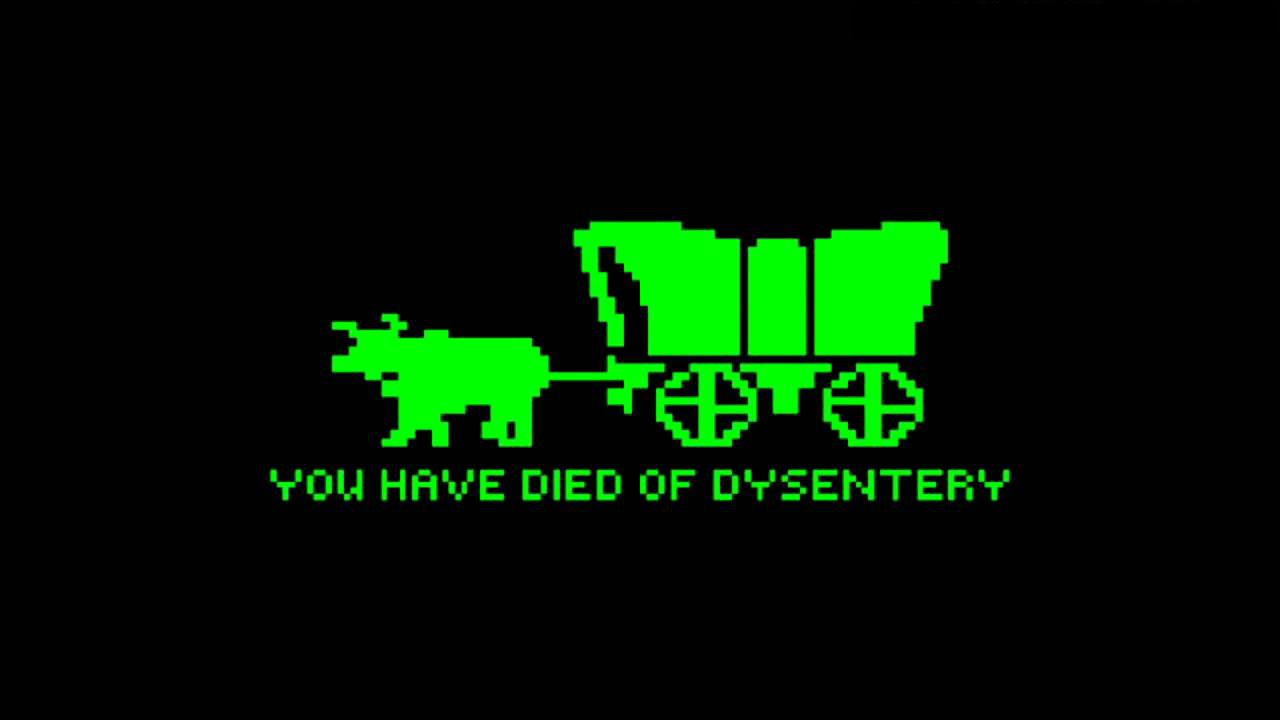
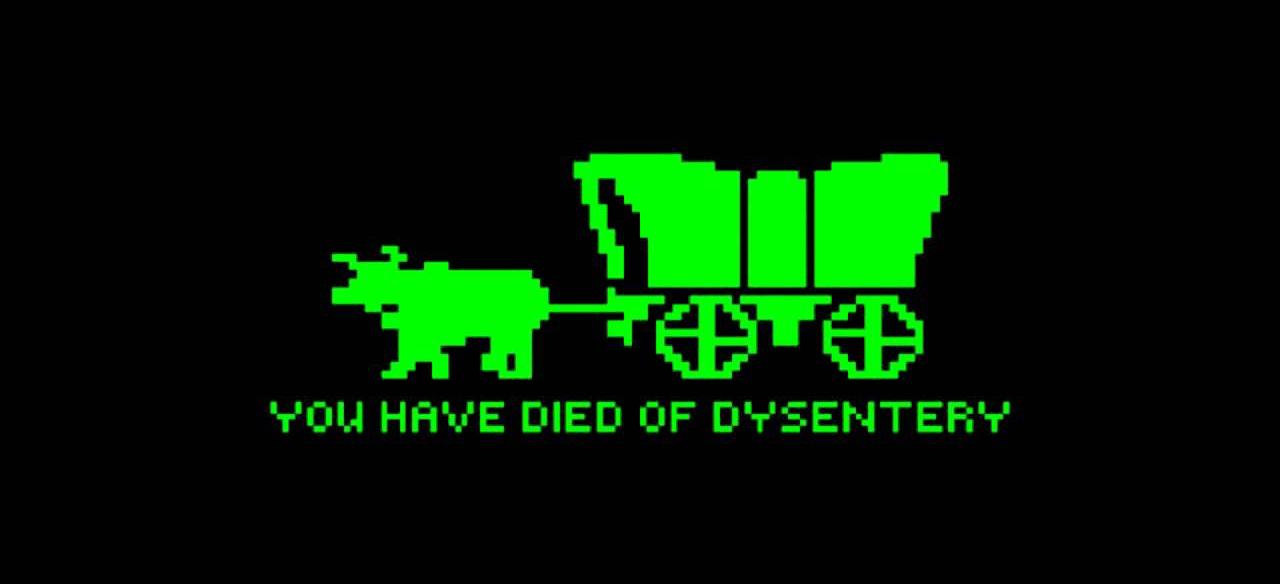
resized death image

Changed region(s): [[0.1875, 0.2466, 0.8125, 0.7397]]

diff --git a/mission.html b/mission.html
@@ -218,7 +218,7 @@
       </article>
 
       <article id="q14">
-        <img src="imgs/died.jpg" alt="" style="width: 100%;">
+        <img src="imgs/died.jpg" alt="" style="width: 100%;" class="youDiedOfDysentery">
         <button type="button" name="restart_game" id="restart_game">Try Again</button>
       </article>
     </div>

diff --git a/mission.css b/mission.css
@@ -26,6 +26,10 @@ li {
   padding: 0 20px;
 }
 
+.youDiedOfDysentery{
+  margin-top: -3px;
+}
+
 .contentWrapper {
   width: 960px;
   height: 500px;
@@ -102,6 +106,7 @@ li {
   position: relative;
   left: 280px;
   top: -100px;
+  margin-top: 20px;
 }
 
 /************************
